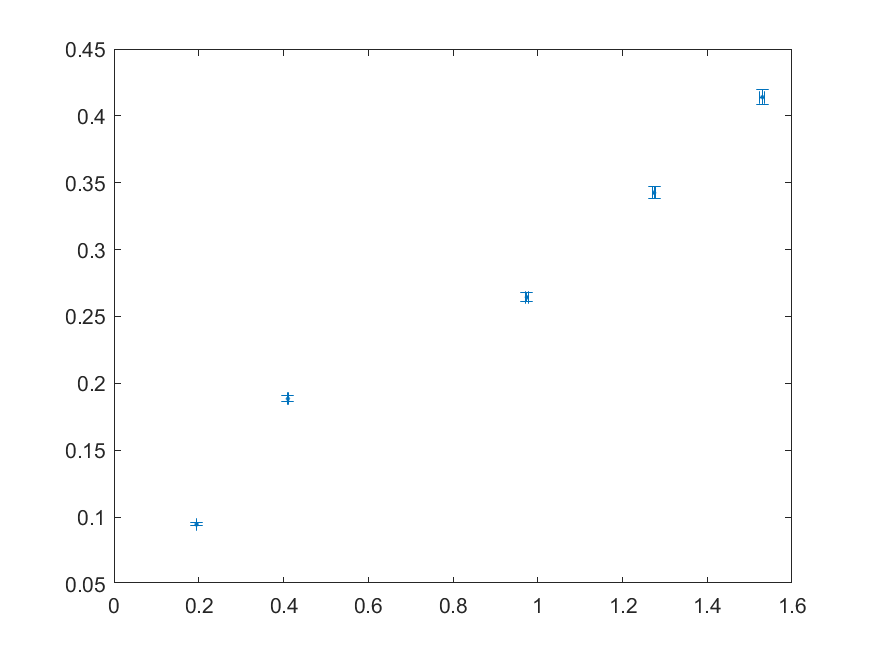
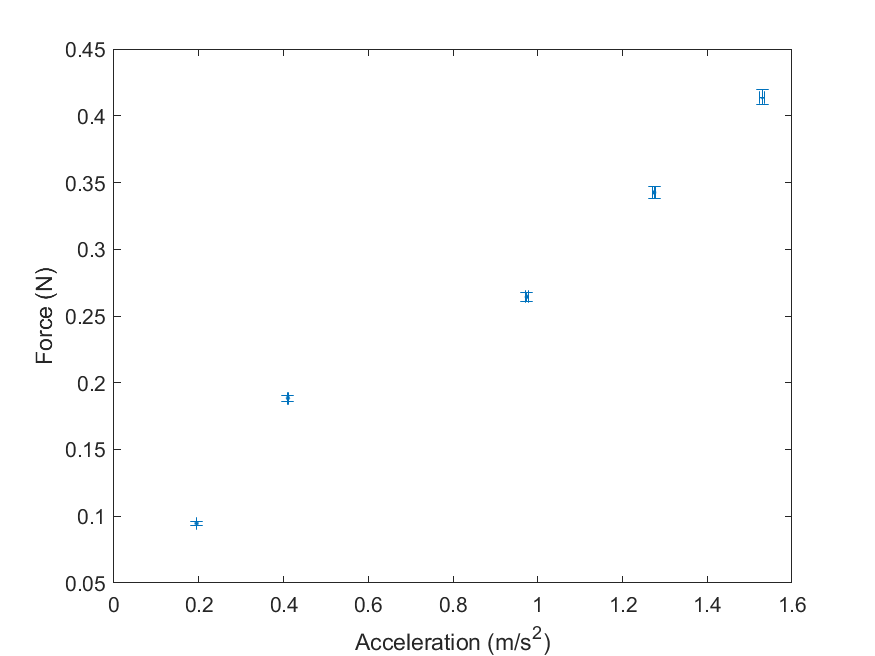
cleaning

diff --git a/exp-3/script/script.m b/exp-3/script/script.m
@@ -7,7 +7,6 @@ df1=readtable("..\data\experimental-data-1.csv")
 df2=readtable("..\data\experimental-data-2.csv")
 tools=readtable("..\data\tools.csv")
 %%
-
 % defining variables
 t0=df2.t1(1:10,:);
 t1=df2.t1(11:20,:);
@@ -17,10 +16,8 @@ t4=df2.t1(41:50,:);
 s1=df1.value(1);
 s2=df1.value(2);
 ds=df1.uncertainty(1);
-dm=df1.uncertainty(5)./1000;
+dm=df1.uncertainty(5)./1000; %kg
 dt=df2.uncertainty(2);
-
-% calculating
 
 % average t
 tm0=mean(t0);
@@ -29,23 +26,16 @@ tm2=mean(t2);
 tm3=mean(t3);
 tm4=mean(t4);
 
-% creating array t
+% creating array for t
 tm=[tm0,tm1,tm2,tm3,tm4];
 lt=length(tm);
-
 
 % space
 s=s1-s2;
 
-% acceleration
-a=zeros(lt,1);
+% gravitational acceleration
 g=9.8;
 dg=0.1;
-
-for i=1:lt
-    a(i)=(2.*s)./(tm(i))^2;
-end
-a
 
 % masses in g
 m=zeros(lt,1);
@@ -56,40 +46,50 @@ m(4)=m(1)+df1.value(8);
 m(5)=m(1)+df1.value(9);
 
 % masses in kg
-m=m/1000
+m=m/1000;
 
-% force
-F=zeros(lt,1);
-dF=zeros(lt,1);
-ref=zeros(lt,1)
+% creating empty array
+a=zeros(lt,1);      % acceleration
+da=zeros(lt,1);     % delta a
+rea=zeros(lt,1);    % relative error a
+cfra=zeros(lt,1);   % position first significant digit da
+f=zeros(lt,1);      % force
+df=zeros(lt,1);     % delta F
+ref=zeros(lt,1);     % relative error force
+
+% core
 for i=1:lt
-    F(i)=m(i).*(g-a(i));
-    dF(i)=((g-a(i))*2*dm)+(m(i)*dg)+(m(i)*((2.*ds+((4.*s.*dt)/(tm(i))))./(tm(i).^2)));
-    ref(i)=(dF(i)./F(i))*100;
-end
 
-force=horzcat(F,dF,ref)
+    % acceleration
+    a(i)=(2.*s)./(tm(i))^2;
 
-% propagation of error
-da=zeros(lt,1);
-cfra=zeros(lt,1);
-rea=zeros(lt,1);
-for i=1:lt
+    % force
+    f(i)=m(i).*(g-a(i));
+    df(i)=((g-a(i))*2*dm)+(m(i)*dg)+(m(i)*((2.*ds+((4.*s.*dt)/(tm(i))))./(tm(i).^2)));
+    ref(i)=(df(i)./f(i))*100;
+    
+    % propagation of error
     da(i)=(2.*ds+((4.*s.*dt)/(tm(i))))./(tm(i).^2);
     cfra(i)=-floor(log10(da(i))); % da sistemare
     da(i)=round(da(i),cfra(i)); % da sistemare
     rea(i)=(da(i)./a(i))*100; % da sistemare
     rea(i)=round(rea(i),2); % da sistemare
+
 end
 
+% visualize force array
+force=horzcat(f,df,ref)
+
+% visualize acceleration array
 acceleration=horzcat(a,da,rea)
 
 % plotting
-scatter=figure
-plot(a,F,'o')
-errorbar(a,F,dF,dF,da,da,'.')
+scatter=figure;
+errorbar(a,f,df,df,da,da,'.')
+xlabel('Acceleration (m/s^2)')
+ylabel('Force (N)')
 
-% testing
+% testing (deleted m2)
 a2=zeros(lt-1,1);
 f2=zeros(lt-1,1);
 a2(1)=a(1);
@@ -97,10 +97,10 @@ a2(2)=a(3);
 a2(3)=a(4);
 a2(4)=a(5);
 
-f2(1)=F(1);
-f2(2)=F(3);
-f2(3)=F(4);
-f2(4)=F(5);
+f2(1)=f(1);
+f2(2)=f(3);
+f2(3)=f(4);
+f2(4)=f(5);
 %%
 % exporting csv
 writetable(array2table(acceleration,'VariableNames',{'acceleration','uncertainty','relative_error'}),'..\data\output-data-1.csv','Delimiter',',','Encoding','UTF-8')
